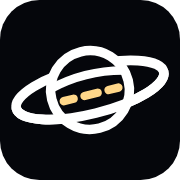
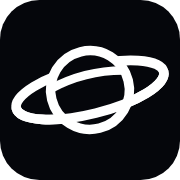
Ícone da aba: volta ao planeta em contorno, sem os traços amarelos
Acrescenta ?v=2 aos links do ícone para o navegador não usar a versão antiga em cache.

Claude-Session: https://claude.ai/code/session_013asG3wdTKKjrabeNAaYVwY

Changed region(s): [[0.3056, 0.4444, 0.6944, 0.6111]]

diff --git a/web/index.html b/web/index.html
@@ -5,9 +5,9 @@
 <meta name="viewport" content="width=device-width, initial-scale=1">
 <title>Orbitron · Simulador Orbital</title>
 <meta name="description" content="Orbitron calcula o movimento dos planetas a partir das leis da física e compara o resultado com as efemérides da NASA.">
-<link rel="icon" href="assets/favicon.svg" type="image/svg+xml">
-<link rel="icon" href="assets/favicon-32.png" sizes="32x32" type="image/png">
-<link rel="apple-touch-icon" href="assets/apple-touch-icon.png">
+<link rel="icon" href="assets/favicon.svg?v=2" type="image/svg+xml">
+<link rel="icon" href="assets/favicon-32.png?v=2" sizes="32x32" type="image/png">
+<link rel="apple-touch-icon" href="assets/apple-touch-icon.png?v=2">
 <meta name="theme-color" content="#000000">
 <!-- Prévia de compartilhamento (WhatsApp, LinkedIn, Instagram, X). Troque a URL se usar outro domínio. -->
 <meta property="og:type" content="website">

diff --git a/web/resultados.html b/web/resultados.html
@@ -5,9 +5,9 @@
 <meta name="viewport" content="width=device-width, initial-scale=1">
 <title>Orbitron · Resultados</title>
 <meta name="description" content="Visualize as saídas do motor do Orbitron: erro relativo de energia e trajetórias de cada execução.">
-<link rel="icon" href="assets/favicon.svg" type="image/svg+xml">
-<link rel="icon" href="assets/favicon-32.png" sizes="32x32" type="image/png">
-<link rel="apple-touch-icon" href="assets/apple-touch-icon.png">
+<link rel="icon" href="assets/favicon.svg?v=2" type="image/svg+xml">
+<link rel="icon" href="assets/favicon-32.png?v=2" sizes="32x32" type="image/png">
+<link rel="apple-touch-icon" href="assets/apple-touch-icon.png?v=2">
 <meta name="theme-color" content="#000000">
 <meta property="og:type" content="website">
 <meta property="og:site_name" content="Orbitron">

diff --git a/web/sistema-solar.html b/web/sistema-solar.html
@@ -4,9 +4,9 @@
 <meta charset="utf-8">
 <meta name="viewport" content="width=device-width, initial-scale=1">
 <title>Orbitron · Simulador</title>
-<link rel="icon" href="assets/favicon.svg" type="image/svg+xml">
-<link rel="icon" href="assets/favicon-32.png" sizes="32x32" type="image/png">
-<link rel="apple-touch-icon" href="assets/apple-touch-icon.png">
+<link rel="icon" href="assets/favicon.svg?v=2" type="image/svg+xml">
+<link rel="icon" href="assets/favicon-32.png?v=2" sizes="32x32" type="image/png">
+<link rel="apple-touch-icon" href="assets/apple-touch-icon.png?v=2">
 <meta name="theme-color" content="#02030a">
 <meta name="description" content="Explore o Sistema Solar em 3D com as posições reais dos planetas, hoje ou em qualquer data.">
 <meta property="og:type" content="website">

diff --git a/web/assets/transicao.js b/web/assets/transicao.js
@@ -14,7 +14,7 @@
   var veu = document.createElement('div');
   veu.id = 'veu';
   veu.setAttribute('aria-hidden', 'true');
-  veu.innerHTML = '<img src="assets/favicon.svg" alt="">';
+  veu.innerHTML = '<img src="assets/favicon.svg?v=2" alt="">';
 
   function montar() {
     document.body.appendChild(veu);
